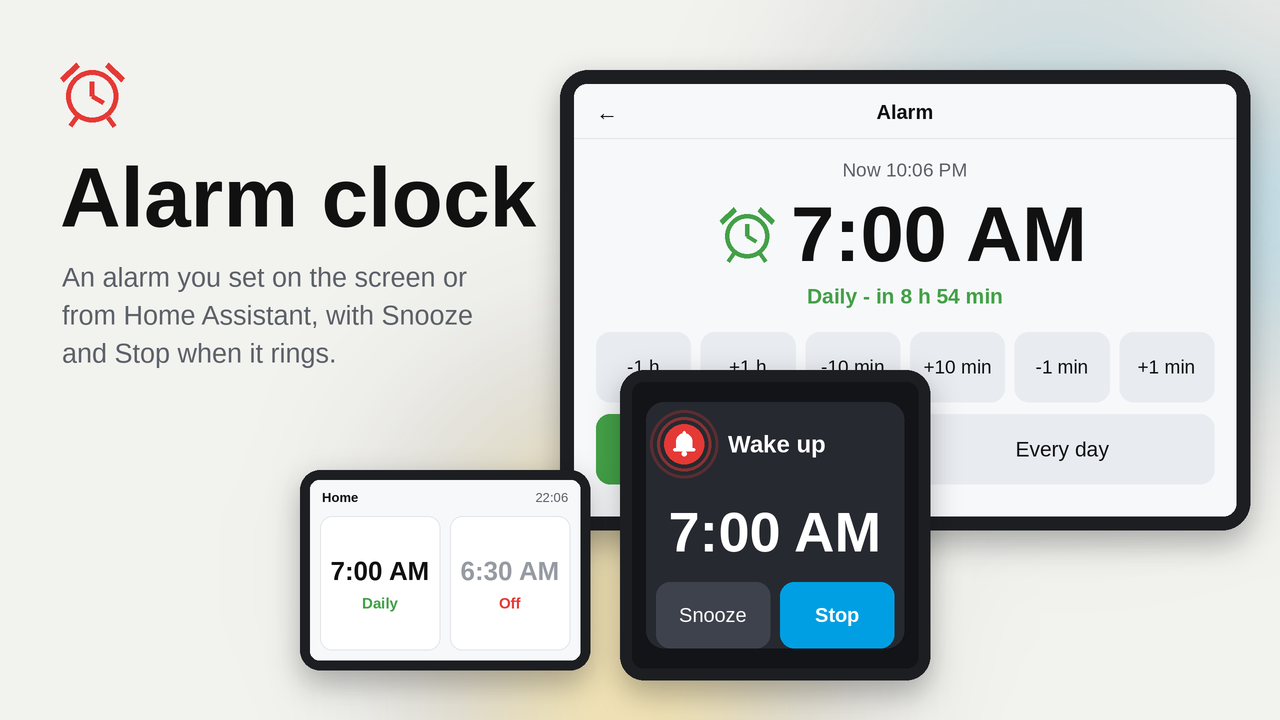
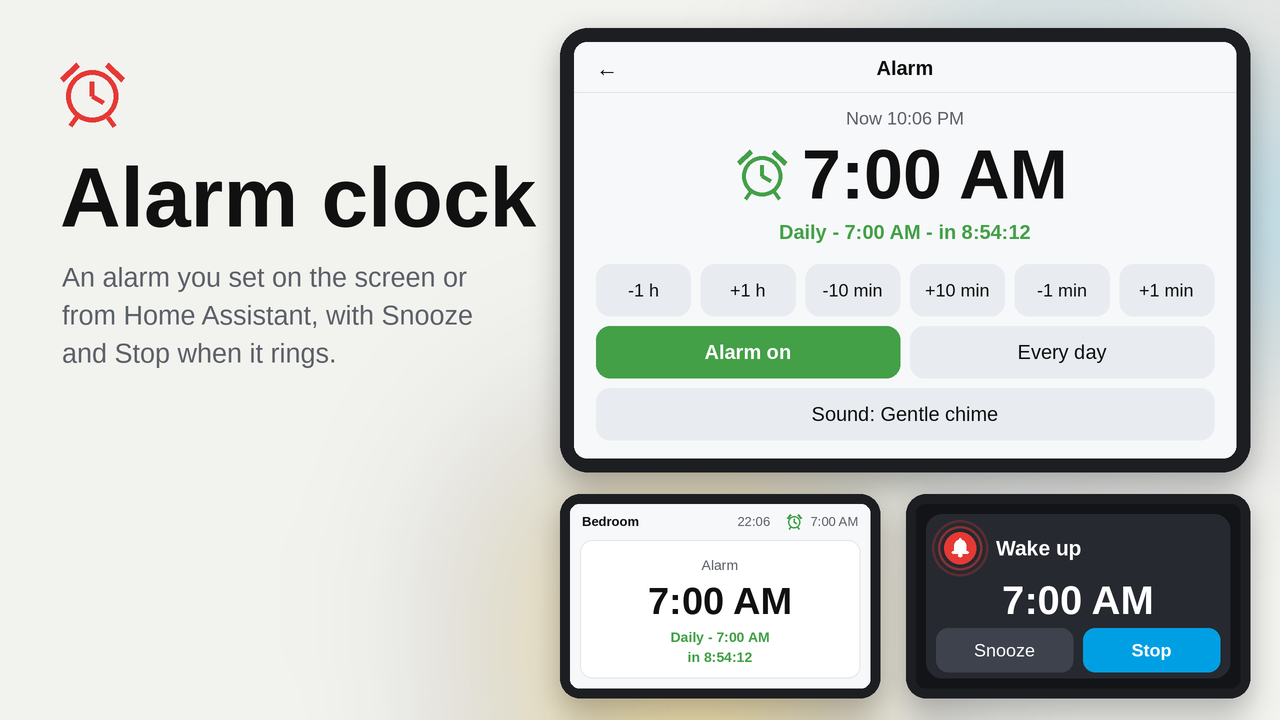
Tile: name and a countdown line on a high tile; snooze counts down
Claude-Session: https://claude.ai/code/session_015kQjyLKhM4SXbP6xszWwdN

diff --git a/components/alarm_clock/alarm_clock.cpp b/components/alarm_clock/alarm_clock.cpp
@@ -56,7 +56,9 @@ struct Key {
 
 // The line under the alarm's time, and its colour: red "Off", or green "Daily" (or "Weekdays") with when it rings
 // next, where that fits in `width`. While it rings or a snooze waits the line says that, in the screen's own grey.
-static Tone state_line(const AlarmClock *plugin, uint32_t epoch, int width, std::string &line) {
+// A countdown that does not fit beside the rest comes back in `extra`, for a line of its own where there is room.
+static Tone state_line(const AlarmClock *plugin, uint32_t epoch, int width, std::string &line, std::string &extra) {
+  extra.clear();
   line = plugin->status_text(epoch);
   if (plugin->ringing()) return Tone::NORMAL;
   if (plugin->snoozed_until()) {
@@ -65,8 +67,10 @@ static Tone state_line(const AlarmClock *plugin, uint32_t epoch, int width, std:
     if (epoch && left > 0) {
       char count[16];
       snprintf(count, sizeof count, "%ld:%02ld", left / 60, left % 60);
-      const std::string all = line + " - " + tessera::fill(plugin->text("rings_in"), "time", count);
+      const std::string in = tessera::fill(plugin->text("rings_in"), "time", count);
+      const std::string all = line + " - " + in;
       if (ui::text_width(all, Font::BODY) <= width) line = all;
+      else extra = in;
     }
     return Tone::BUSY;
   }
@@ -75,9 +79,12 @@ static Tone state_line(const AlarmClock *plugin, uint32_t epoch, int width, std:
   // "Daily - 7:00 AM - in 8:12:40" where that fits, else without the countdown, else the one word.
   const std::string at = mode + " - " + plugin->time_text(epoch);
   const std::string all = at + " - " + line;
-  if (ui::text_width(all, Font::BODY) <= width) line = all;
-  else if (ui::text_width(at, Font::BODY) <= width) line = at;
-  else line = mode;
+  if (ui::text_width(all, Font::BODY) <= width) {
+    line = all;
+  } else {
+    extra = line;
+    line = ui::text_width(at, Font::BODY) <= width ? at : mode;
+  }
   return Tone::GOOD;
 }
 
@@ -94,6 +101,12 @@ class AlarmTile : public tessera::Tile {
     lv_obj_set_width(time_, width_);
     status_ = centred_label(c.parent, Font::BODY, theme::MUTED);
     lv_obj_set_width(status_, width_);
+    extra_ = centred_label(c.parent, Font::BODY, theme::MUTED);
+    lv_obj_set_width(extra_, width_);
+    // The tile's name from the editor, "Alarm" without one: shown on a tile that is high enough.
+    name_ = c.name != nullptr && c.name[0] ? std::string(c.name) : std::string(plugin_->text("alarm"));
+    title_ = centred_label(c.parent, Font::BODY, theme::MUTED);
+    lv_obj_set_width(title_, width_);
   }
 
   void on_tick(uint32_t epoch) override { paint(epoch); }
@@ -103,12 +116,23 @@ class AlarmTile : public tessera::Tile {
  private:
   void paint(uint32_t epoch) {
     const std::string time = plugin_->time_text(epoch);
-    std::string status;
-    const Tone state = state_line(plugin_, epoch, width_, status);
+    std::string status, extra;
+    const Tone state = state_line(plugin_, epoch, width_, status, extra);
     const int sh = ui::line_height(Font::BODY);
-    const Font face = fitting(time, width_, height_ - sh);
+    // The countdown on a line of its own, then the title above the time: each only where the time stays large.
+    const int large = ui::line_height(Font::VALUE);
+    const bool second = !extra.empty() && height_ >= large + 2 * sh;
+    const bool titled = height_ >= large + (second ? 3 : 2) * sh;
+    const int under = (second ? 2 : 1) * sh, over = titled ? sh : 0;
+    const Font face = fitting(time, width_, height_ - under - over);
     const int th = ui::line_height(face);
-    const int top = std::max(0, (height_ - th - sh) / 2);
+    const int top = std::max(0, (height_ - th - under - over) / 2) + over;
+    ui::set_text(title_, titled ? name_ : std::string());
+    ui::set_color(title_, theme::MUTED);
+    lv_obj_set_pos(title_, 0, top - over);
+    ui::set_text(extra_, second ? extra : std::string());
+    ui::set_tone(extra_, state, theme::MUTED);
+    lv_obj_set_pos(extra_, 0, top + th + sh);
     ui::set_font(time_, face);
     ui::set_text(time_, time);
     ui::set_tone(time_, plugin_->ringing() ? Tone::ALERT : Tone::NORMAL, plugin_->enabled() ? theme::INK : theme::MUTED);
@@ -120,7 +144,8 @@ class AlarmTile : public tessera::Tile {
 
   AlarmClock *plugin_;
   int tile_ = -1, width_ = 0, height_ = 0;
-  lv_obj_t *time_{}, *status_{};
+  std::string name_;
+  lv_obj_t *time_{}, *status_{}, *extra_{}, *title_{};
 };
 
 // The card: the time large, six keys that move it, and two that turn the alarm on and choose its days.
@@ -210,8 +235,8 @@ class AlarmCard : public tessera::Card {
     const int iw = ui::line_height(Font::ICON);
     ui::set_tone(icon_, plugin_->enabled() ? Tone::GOOD : Tone::NORMAL, theme::MUTED);
     lv_obj_set_pos(icon_, std::max(0, static_cast<int>(at.x) - iw - ui::px(8)), top + (th - iw) / 2);
-    std::string status;
-    const Tone state = state_line(plugin_, epoch, width_, status);
+    std::string status, extra;
+    const Tone state = state_line(plugin_, epoch, width_, status, extra);
     ui::set_text(status_, status);
     ui::set_tone(status_, state, theme::MUTED);
     lv_obj_set_pos(status_, 0, top + th);

diff --git a/CHANGELOG.md b/CHANGELOG.md
@@ -4,6 +4,7 @@
 
 - A **Sound** key on the alarm's card takes the next sound and plays it once; a sound chosen in Home Assistant plays once too.
 - The line under the time says when the alarm rings and counts down to it every second (Daily - 7:00 AM - in 8:12:40).
+- A tile two cells high shows its name and gives the countdown a line of its own.
 - A waiting snooze shows in amber and counts down too (Snoozed until 7:09 AM - in 8:40).
 - An item for the top bar: an alarm clock, green with the alarm's time while it is on and grey while it is off.
 - An alarm clock icon beside the time on the alarm's card.
